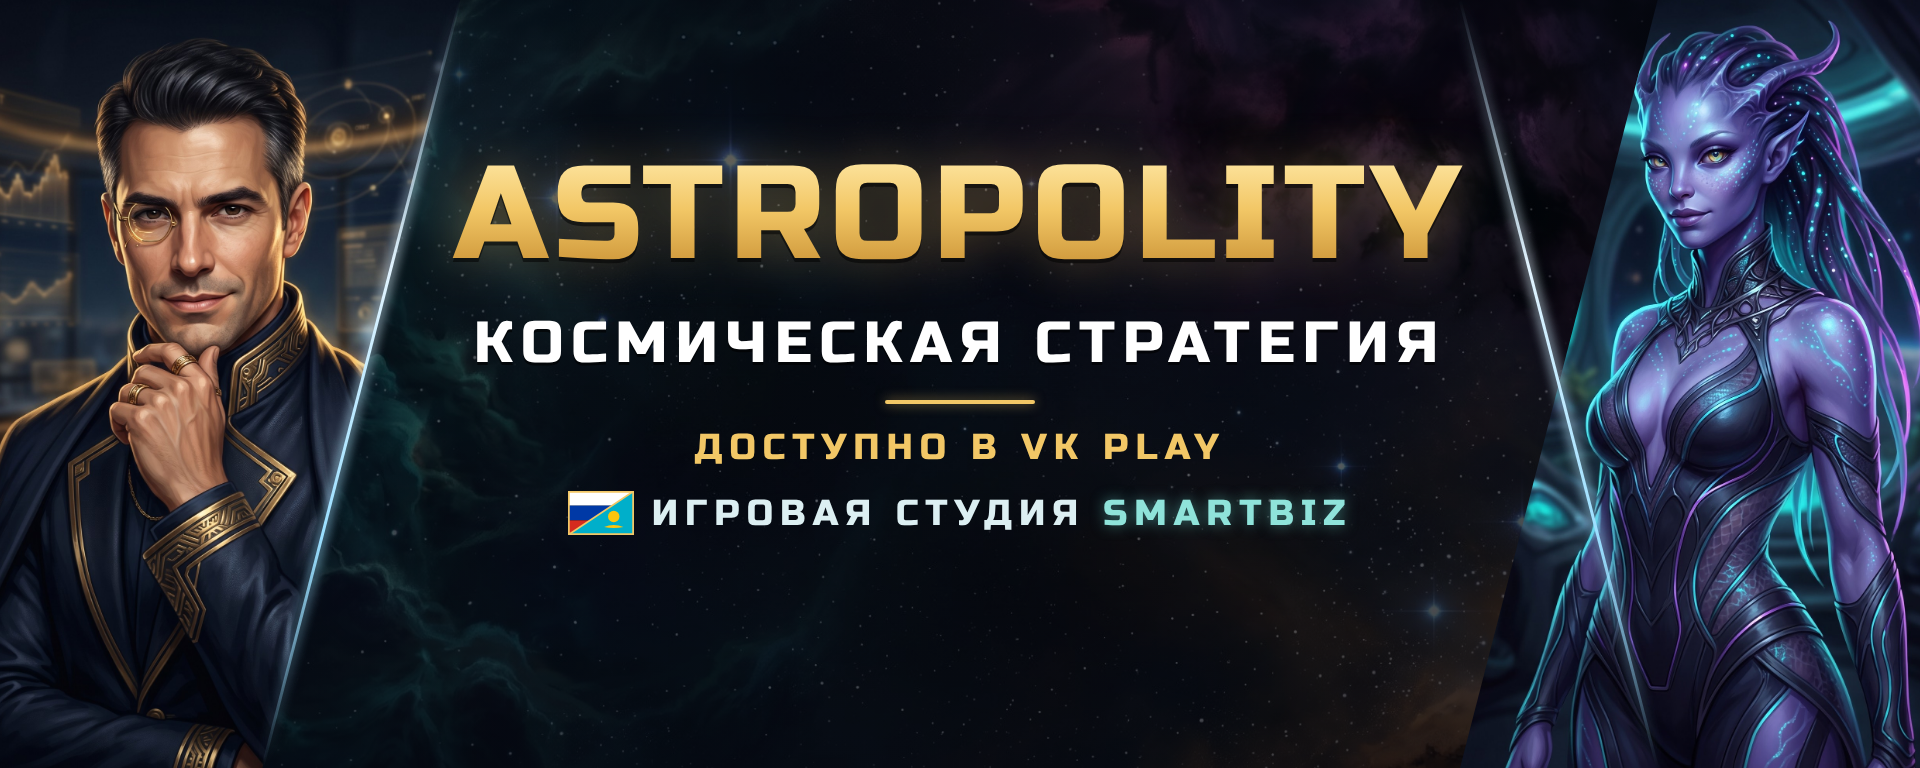
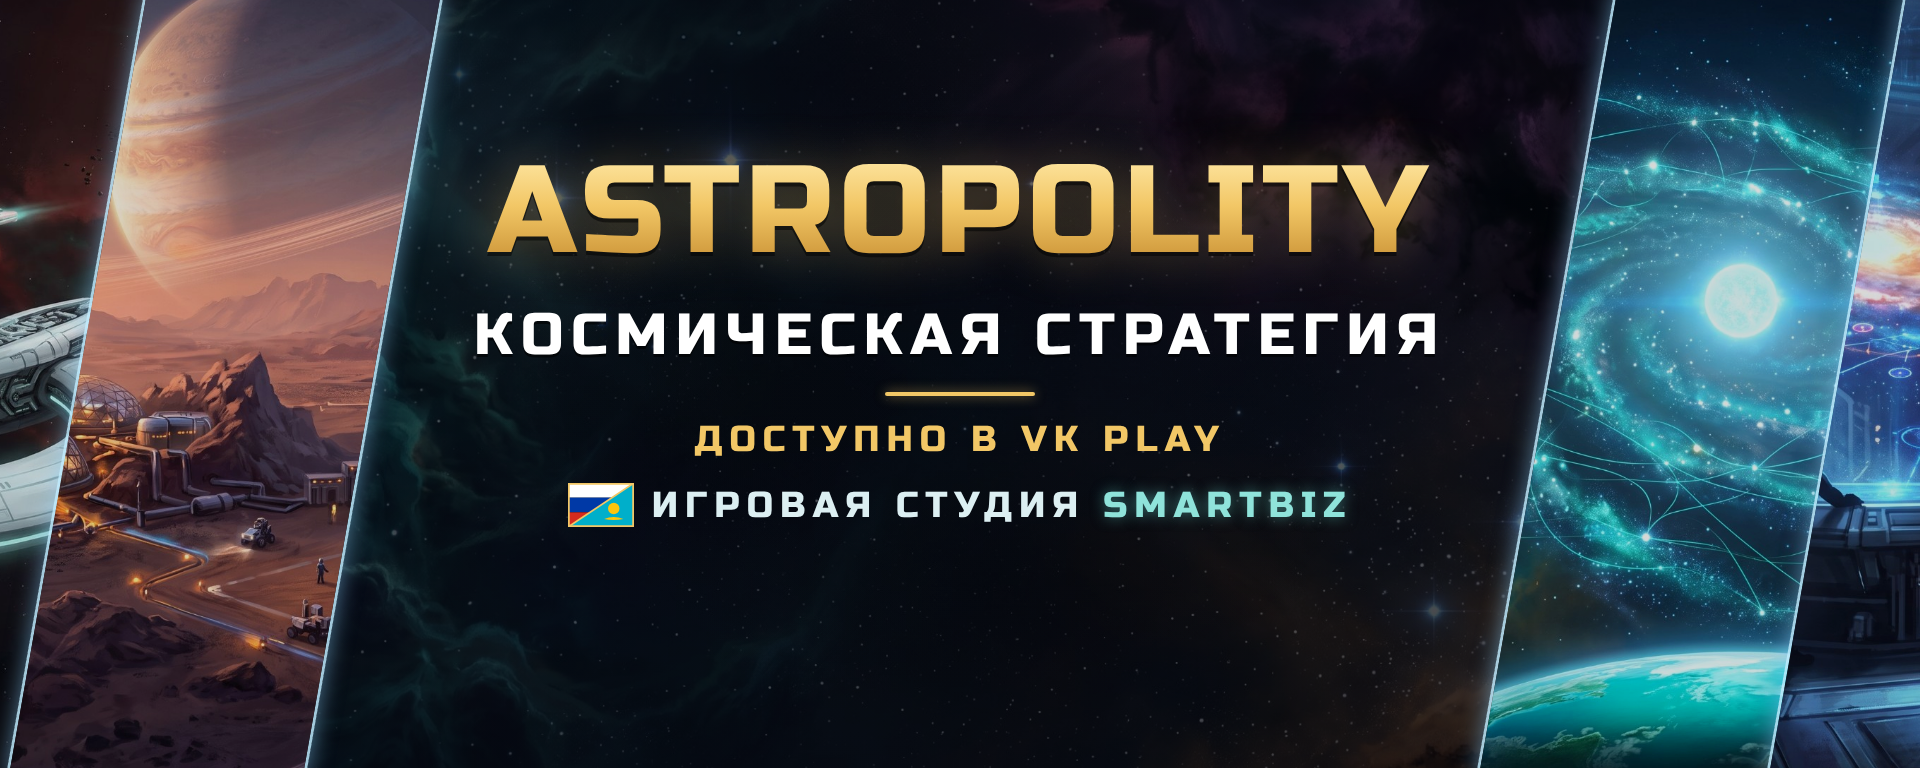
Шапка группы VK: арты игры в косых светящихся панелях вместо персонажей
Claude-Session: https://claude.ai/code/session_01MBQ4JGpUh1c6nHPDeTgt1b

diff --git a/Tools/news/vk_cover.html b/Tools/news/vk_cover.html
@@ -1,7 +1,7 @@
 <!doctype html>
 <html lang="ru"><head><meta charset="utf-8">
-<!-- Шапка группы VK 1920×768 в стиле действующей: золотой логотип по центру, лидеры Аквилы и Иридии по краям
-     за светящимися косыми срезами; добавлена строка «Игровая студия SmartBiz». На телефоне ВК показывает всю ширину,
+<!-- Шапка группы VK 1920×768 в стиле действующей: золотой логотип по центру, арты игры по краям
+     в косых светящихся панелях; добавлена строка «Игровая студия SmartBiz». На телефоне ВК показывает всю ширину,
      сверху — строка состояния и кнопки, снизу слева — аватар: текст держим в середине по высоте. -->
 <style>
 @font-face { font-family: Play; font-weight: 700; src: url(../../Assets/Resources/Fonts/Play-Bold.ttf); }
@@ -11,15 +11,14 @@ body { background: #03070F; }
 #cover { position: relative; width: 1920px; height: 768px; overflow: hidden; background: #03070F; font-family: Play; color: #fff; }
 .space { position: absolute; inset: 0; background: url(../../Assets/Resources/Menu/menu_bg.jpg) center 40%/cover; filter: brightness(0.5); }
 .vign { position: absolute; inset: 0; background: radial-gradient(ellipse 60% 80% at center, rgba(3,7,15,0.1), rgba(3,7,15,0.7)); }
-.lead { position: absolute; top: 0; bottom: 0; width: 520px; overflow: hidden; }
-.lead div { position: absolute; inset: 0; background-size: cover; background-position: center 15%; }
-.l { left: -60px; clip-path: polygon(0 0, 100% 0, 62% 100%, 0 100%); }
-.r { right: -60px; clip-path: polygon(38% 0, 100% 0, 100% 100%, 0 100%); }
-.edge { position: absolute; top: -20px; bottom: -20px; width: 3px; background: linear-gradient(180deg, rgba(160,240,255,0), #CDEBFF 40%, #8FD8FF 60%, rgba(160,240,255,0));
-  box-shadow: 0 0 14px #9ADFFF, 0 0 34px rgba(140,210,255,0.6); }
-.e1 { left: 371px; transform: skewX(-21.3deg); transform-origin: top; } .e2 { right: 371px; transform: skewX(21.3deg); transform-origin: top; }
+.panels { position: absolute; inset: 0; }
+.pn { position: absolute; top: -10px; bottom: -10px; width: 300px; transform: skewX(-10deg); overflow: hidden;
+  border-left: 3px solid rgba(190,235,255,0.85); border-right: 3px solid rgba(190,235,255,0.85);
+  box-shadow: 0 0 22px rgba(140,210,255,0.55), inset 0 0 40px rgba(0,0,0,0.5); }
+.pn div { position: absolute; inset: 0 -140px; background-size: cover; transform: skewX(10deg); filter: brightness(0.85) saturate(1.1); }
+.mid { position: absolute; left: 470px; right: 470px; top: 0; bottom: 0; background: radial-gradient(ellipse at center, rgba(3,7,15,0.25), rgba(3,7,15,0) 70%); }
 .center { position: absolute; left: 0; right: 0; top: 150px; text-align: center; }
-.logo { font-family: Russo; font-size: 132px; letter-spacing: 6px; line-height: 1;
+.logo { font-family: Russo; font-size: 124px; letter-spacing: 5px; line-height: 1;
   background: linear-gradient(180deg, #FFE9A8 0%, #F2C766 45%, #C48A2E 100%); -webkit-background-clip: text; color: transparent;
   filter: drop-shadow(0 4px 0 rgba(0,0,0,0.5)) drop-shadow(0 0 24px rgba(242,199,102,0.3)); }
 .sub { font-family: Russo; font-size: 58px; letter-spacing: 8px; margin-top: 26px; color: #FFFFFF; text-shadow: 0 3px 0 rgba(0,0,0,0.6); }
@@ -31,13 +30,14 @@ body { background: #03070F; }
 </style></head>
 <body><div id="cover">
   <div class="space"></div><div class="vign"></div>
-  <div class="lead l"><div style="background-image:url(../../Assets/Resources/Leaders/leader_aquila.jpg)"></div></div>
-  <div class="lead r"><div style="background-image:url(../../Assets/Resources/Leaders/leader_iridia.jpg)"></div></div>
-  <svg class="edges" width="1920" height="768" style="position:absolute;inset:0"><defs>
-    <linearGradient id="eg" x1="0" y1="0" x2="0" y2="1"><stop offset="0" stop-color="#BDE6FF" stop-opacity="0"/><stop offset="0.35" stop-color="#E2F4FF"/><stop offset="0.7" stop-color="#9ADFFF"/><stop offset="1" stop-color="#9ADFFF" stop-opacity="0"/></linearGradient>
-    <filter id="eglow" x="-50%" y="-10%" width="200%" height="120%"><feGaussianBlur stdDeviation="6" result="b"/><feMerge><feMergeNode in="b"/><feMergeNode in="b"/><feMergeNode in="SourceGraphic"/></feMerge></filter></defs>
-    <g filter="url(#eglow)" stroke="url(#eg)" stroke-width="3"><line x1="460" y1="0" x2="262.4" y2="768"/><line x1="1460" y1="0" x2="1657.6" y2="768"/></g>
-  </svg>
+  <!-- Арты игры в косых панелях по краям: слева флот у красной звезды и колония, справа галактика и мостик -->
+  <div class="panels">
+    <div class="pn" style="left:-215px"><div style="background-image:url(../../Assets/Resources/UI/LoadingArt_4.jpg);background-position:30% 50%"></div></div>
+    <div class="pn" style="left:75px"><div style="background-image:url(../../Assets/Resources/UI/LoadingArt_3.jpg);background-position:60% 50%"></div></div>
+    <div class="pn" style="left:1545px"><div style="background-image:url(../../Assets/Resources/UI/LoadingArt.jpg);background-position:45% 50%"></div></div>
+    <div class="pn" style="left:1835px"><div style="background-image:url(../../Assets/Resources/UI/LoadingArt_2.jpg);background-position:35% 50%"></div></div>
+  </div>
+  <div class="mid"></div>
   <div class="center">
     <div class="logo">ASTROPOLITY</div>
     <div class="sub">КОСМИЧЕСКАЯ СТРАТЕГИЯ</div>
